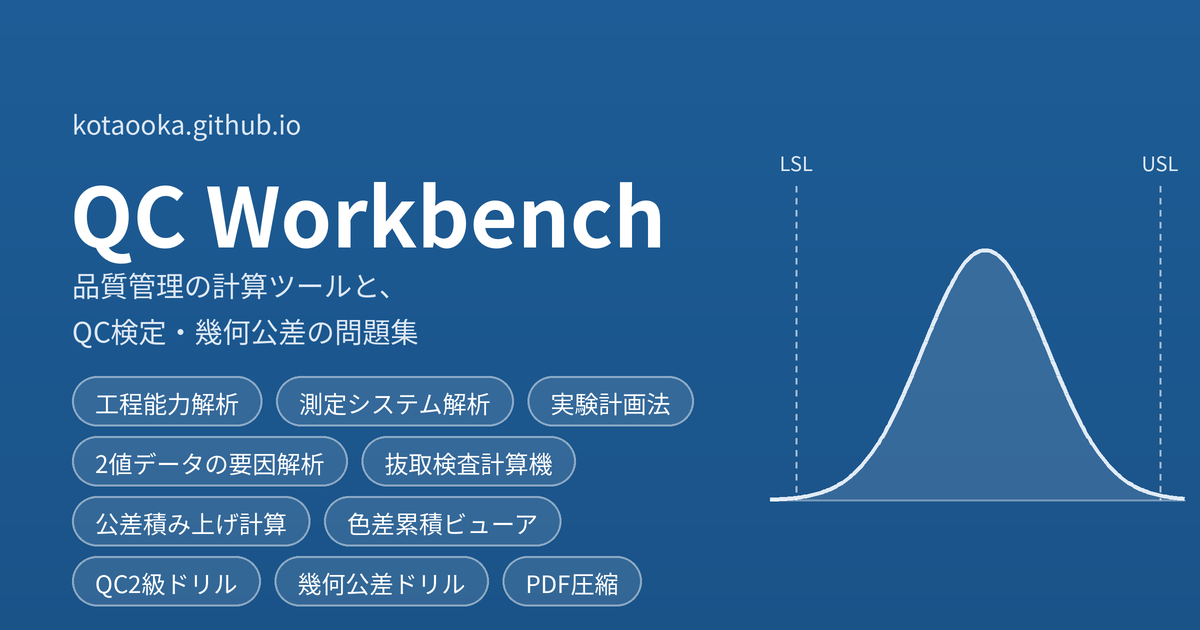
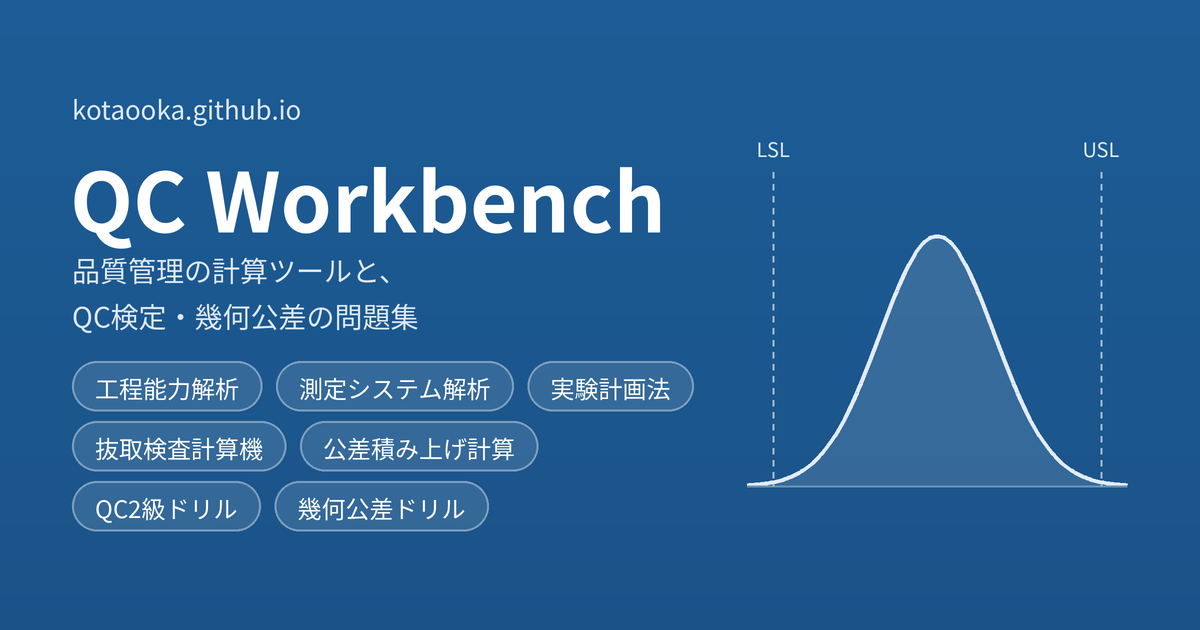
og 画像の余白をそろえ、ツール名は代表的なものだけにする
- 左右の余白を 72 px にそろえ、文字の塊と図をそれぞれ上下中央に置く（位置は描いた範囲から計算する）
- ツール名のチップは代表的な 7 つにし、ツールを増やしても画像を直さなくてよい形にする

diff --git a/tools/make_og.py b/tools/make_og.py
@@ -4,7 +4,8 @@
 # .ttc は日本語・中国語・韓国語の字形を1ファイルに持つため、index=0（JP）を明示して選ぶ。
 # 実行: python tools/make_og.py [Noto Sans CJK のフォルダ]
 #   既定は /usr/share/fonts/opentype/noto（Windows なら NotoSansCJK-*.ttc を置いたフォルダを指定）
-# ツールを増やしたら TOOLS（1 行に収まる数ずつ）と SUBTITLE を直す
+# TOOLS は代表的なツールだけ載せる（全部は載せない。ツールを増やしても直さなくてよい）
+# 余白は左右を MARGIN にそろえ、上下は中身を画像の上下中央に置いてそろえる
 import math, pathlib, sys
 from PIL import Image, ImageDraw, ImageFont
 
@@ -14,12 +15,14 @@ FONT_DIR = pathlib.Path(sys.argv[1] if len(sys.argv) > 1 else "/usr/share/fonts/
 SUBTITLE = ["品質管理の計算ツールと、", "QC検定・幾何公差の問題集"]
 TOOLS = [
     ["工程能力解析", "測定システム解析", "実験計画法"],
-    ["2値データの要因解析", "抜取検査計算機"],
-    ["公差積み上げ計算", "色差累積ビューア"],
-    ["QC2級ドリル", "幾何公差ドリル", "PDF圧縮"],
+    ["抜取検査計算機", "公差積み上げ計算"],
+    ["QC2級ドリル", "幾何公差ドリル"],
 ]
 TOP, BOTTOM = (29, 92, 150), (26, 83, 136)  # 計算ツールのアクセント #1d5c96 から少し暗く
 K = 2  # 縮小前の倍率（アンチエイリアス用）
+MARGIN = 72  # 左右の余白（px）
+GAP = 48  # 左の文字と右の図の間の最小の間隔（px）
+FIG_W = 380  # 右の図の幅（px）
 
 
 def font(weight, size):
@@ -35,39 +38,49 @@ def main():
     for y in range(H):
         t = y / H
         g.line([(0, y), (W, y)], fill=tuple(round(TOP[i] + (BOTTOM[i] - TOP[i]) * t) for i in range(3)))
-    d = ImageDraw.Draw(im, "RGBA")
+    # 左（文字とチップ）と右（図）をそれぞれ透明の層に描き、実際に色の付いた範囲で位置を決める
+    left = Image.new("RGBA", (W, H), (0, 0, 0, 0))
+    d = ImageDraw.Draw(left)
     soft = (222, 232, 244)
-
-    d.text((72 * K, 104 * K), "kotaooka.github.io", font=font("Regular", 26), fill=soft)
-    d.text((70 * K, 152 * K), "QC Workbench", font=font("Bold", 82), fill=(255, 255, 255))
+    d.text((0, 0), "kotaooka.github.io", font=font("Regular", 26), fill=soft)
+    d.text((-2 * K, 48 * K), "QC Workbench", font=font("Bold", 82), fill=(255, 255, 255))
     for i, line in enumerate(SUBTITLE):
-        d.text((72 * K, (264 + i * 46) * K), line, font=font("Regular", 28), fill=soft)
-        assert 72 * K + d.textlength(line, font=font("Regular", 28)) < 770 * K, f"副題の行が図に重なる: {line}"
-
+        d.text((0, (160 + i * 46) * K), line, font=font("Regular", 28), fill=soft)
     pf = font("Regular", 24)
-    # ツール名は 4 行。行の間隔を詰めて画像の下端に収める
-    y = 376 * K
+    y = 272 * K
     for row in TOOLS:
-        x = 72 * K
+        x = 0
         for name in row:
             w = d.textlength(name, font=pf) + 46 * K
             d.rounded_rectangle([x, y, x + w, y + 50 * K], radius=25 * K, fill=(255, 255, 255, 28), outline=(255, 255, 255, 110), width=2 * K)
             d.text((x + 23 * K, y + 9 * K), name, font=pf, fill=(255, 255, 255))
             x += w + 14 * K
-        assert x < 770 * K, f"ツール名の行が図に重なる: {row}"
         y += 60 * K
 
-    # 右側の図：分布曲線と規格線
-    x0, x1, base, m, s, amp = 770, 1185, 500, 985, 62, 250
+    # 右の図：分布曲線と規格線（図の左端を 0 として描く）
+    right = Image.new("RGBA", (W, H), (0, 0, 0, 0))
+    d = ImageDraw.Draw(right)
+    x0, x1, base, amp = 0, FIG_W, 360, 250
+    m, s = FIG_W / 2, FIG_W * 0.15
     curve = [(xx * K, (base - amp * math.exp(-((xx - m) / s) ** 2 / 2)) * K) for xx in range(x0, x1 + 1, 2)]
     d.polygon(curve + [(x1 * K, base * K), (x0 * K, base * K)], fill=(255, 255, 255, 30))
     d.line(curve, fill=(225, 235, 246), width=4 * K, joint="curve")
     d.line([(x0 * K, base * K), (x1 * K, base * K)], fill=(255, 255, 255, 90), width=2 * K)
     lf = font("Regular", 20)
-    for xx, lab in ((796, "LSL"), (1160, "USL")):
-        for yy in range(186, base, 12):
+    for xx, lab in ((26, "LSL"), (FIG_W - 26, "USL")):
+        for yy in range(46, base, 12):
             d.line([(xx * K, yy * K), (xx * K, min(yy + 6, base) * K)], fill=(255, 255, 255, 150), width=2 * K)
-        d.text((xx * K, 162 * K), lab, font=lf, fill=soft, anchor="mm")
+        d.text((xx * K, 22 * K), lab, font=lf, fill=soft, anchor="mm")
+
+    lb, rb = left.getbbox(), right.getbbox()
+    M = MARGIN * K
+    # 左：左端を MARGIN に、上下中央に。右：右端を W − MARGIN に、上下中央に
+    lx, ly = M - lb[0], (H - (lb[3] - lb[1])) // 2 - lb[1]
+    rx, ry = W - M - rb[2], (H - (rb[3] - rb[1])) // 2 - rb[1]
+    assert lb[2] + lx + GAP * K <= rb[0] + rx, "左の文字と右の図が近すぎる"
+    assert ly + lb[1] >= M, "上下の余白が左右より狭い"
+    im.paste(left, (lx, ly), left)
+    im.paste(right, (rx, ry), right)
 
     im.resize((1200, 630), Image.LANCZOS).save(REPO / "og.png", optimize=True)
     print("og.png を書き出した")
